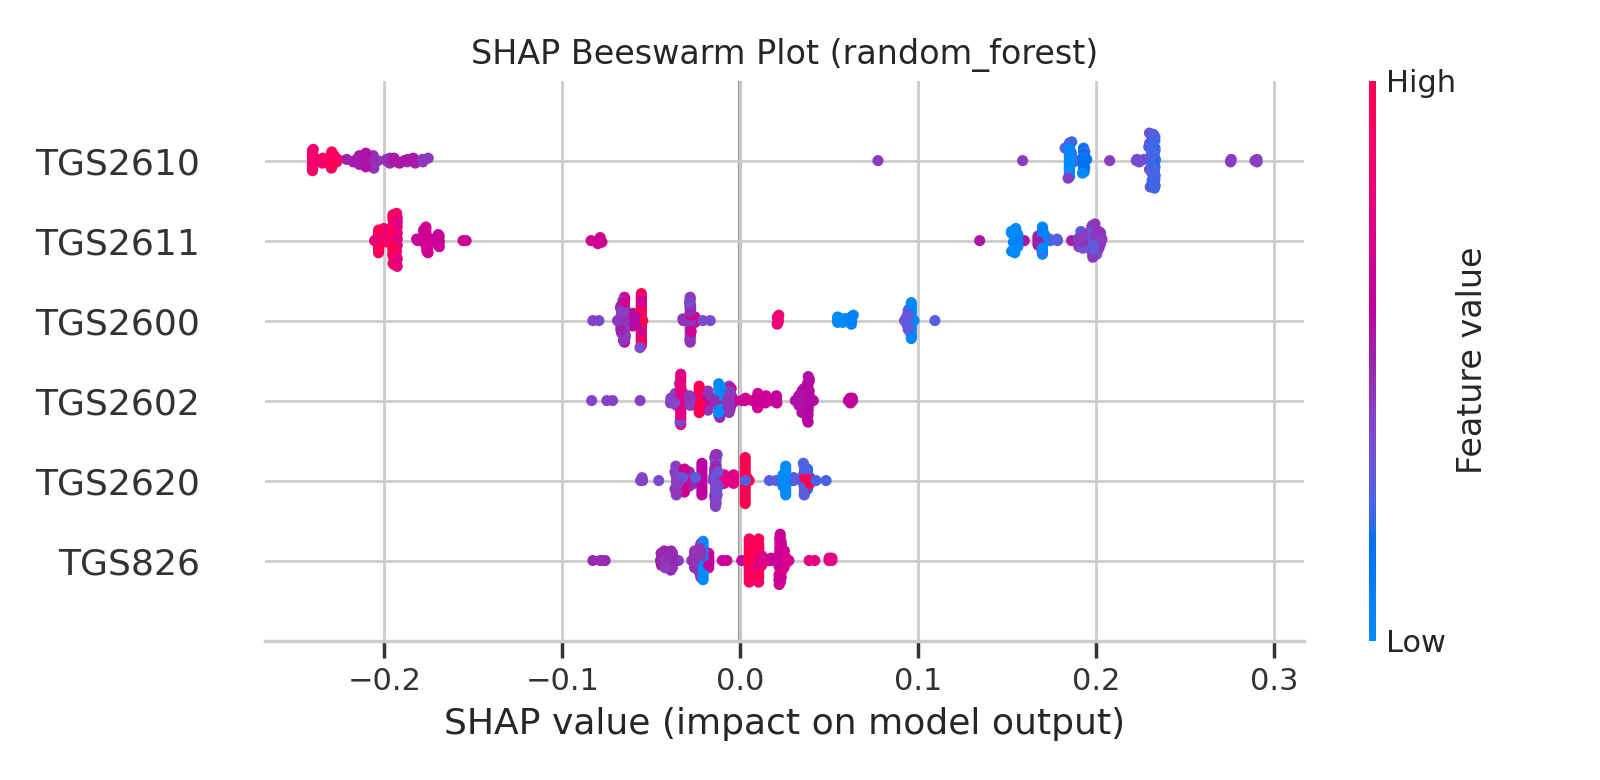
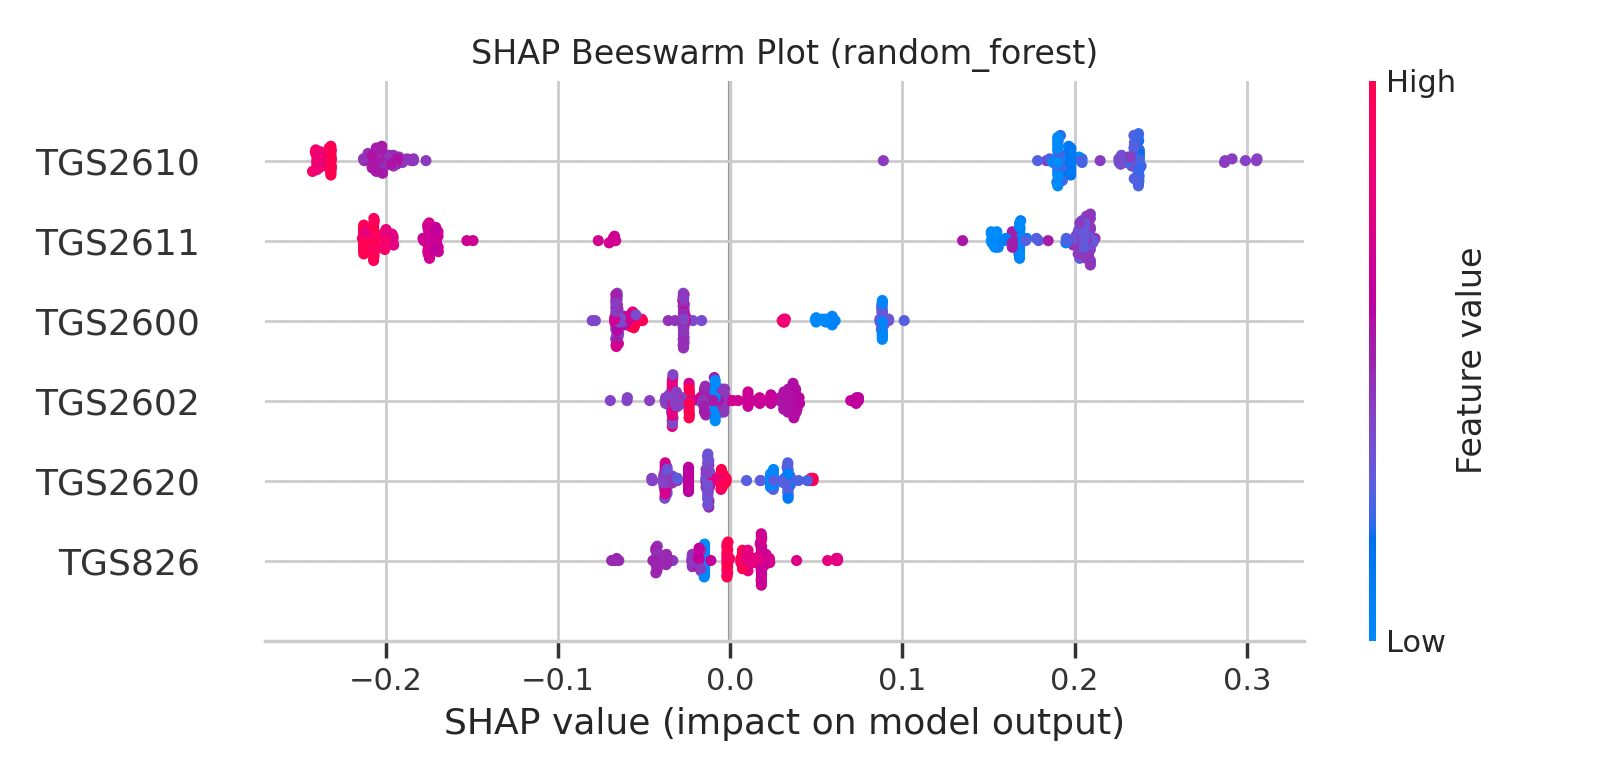
Testing and Modification

diff --git a/backend/app/services/assessment_service.py b/backend/app/services/assessment_service.py
@@ -3,6 +3,7 @@ import uuid
 import sqlite3
 import json
 import pickle
+import numpy as np
 from datetime import datetime
 from app.models.schemas import PatientAssessmentRequest
 from app.services.explain_service import ExplainService

diff --git a/docs/numpy_bug_root_cause_report.md b/docs/numpy_bug_root_cause_report.md
@@ -1,0 +1,114 @@
+# Root-Cause Analysis and Resolution Report: NumPy Import Issue
+
+## 1. Executive Summary
+During the end-to-end verification phase of the E-Nose Diabetes Platform, a critical `500 Internal Server Error` was encountered when submitting patient assessments at the `/api/assessment` endpoint and during clinical PDF downloads. The error details returned:
+`"NameError: name 'np' is not defined"`.
+
+This document identifies the root cause of this failure, traces all occurrences of `np` across the codebase, details the corrective action taken, and logs the successful verification results after resolving the issue.
+
+---
+
+## 2. Root Cause Analysis
+- **Symptom**: Submitting a patient assessment from the UI form or calling `POST /api/assessment` via direct HTTP request crashed with a `500 Internal Server Error`.
+- **Exact File and Line**:
+  - **File**: `backend/app/services/assessment_service.py`
+  - **Line**: 180
+  - **Code**:
+    ```python
+    raw_values = np.array([[features[col] for col in ["TGS2600", "TGS2602", "TGS2610", "TGS2611", "TGS2620", "TGS826"]]])
+    ```
+- **Underlying Issue**: The file [assessment_service.py](file:///c:/Users/spand/college/research_ml_E-nose/diabetes/Diabetes_frontend_ui/backend/app/services/assessment_service.py) referenced the `np` variable to construct a NumPy array for StandardScaler transformation. However, `import numpy as np` was completely missing from the module imports section at the top of the file.
+
+---
+
+## 3. Investigation & Resolution Steps
+
+### A. Reference Audit (Grep Search for `np.`)
+A codebase search was executed to check for references to `np.` across `backend/app` to determine if any other files lacked proper imports:
+
+1. **`backend/app/services/ml_service.py`**:
+   - Multiple references to `np.mean`, `np.zeros`, `np.argsort`, and `np.abs`.
+   - **Status**: ✔ Correctly imports `numpy as np` on line 4.
+2. **`backend/app/services/explain_service.py`**:
+   - References `np.zeros`, `np.array`, `np.ndarray`, `np.arange`, and `np.argsort`.
+   - **Status**: ✔ Correctly imports `numpy as np` on line 5.
+3. **`backend/app/services/assessment_service.py`**:
+   - References `np.array` on line 180.
+   - **Status**: ❌ Missing `import numpy as np`.
+4. **`backend/app/models/base_model.py` and Concrete Wrappers (`rf_model.py`, `lr_model.py`, `xgb_model.py`, `svm_model.py`, `knn_model.py`)**:
+   - Reference `np.ndarray` for type-hinting signatures.
+   - **Status**: ✔ Correctly import `numpy as np`.
+
+### B. Implementation
+- Added `import numpy as np` on line 6 of [assessment_service.py](file:///c:/Users/spand/college/research_ml_E-nose/diabetes/Diabetes_frontend_ui/backend/app/services/assessment_service.py):
+  ```python
+  import os
+  import uuid
+  import sqlite3
+  import json
+  import pickle
+  import numpy as np
+  from datetime import datetime
+  ```
+
+### C. Docker Reload
+Because the production container command does not run with hot-reload (`--reload`), the backend container was restarted to load the updated service module:
+```bash
+docker compose restart backend
+```
+
+---
+
+## 4. Post-Fix Verification Results
+
+After restarting the backend, the E2E verification test suite was executed. All tests completed successfully:
+
+### ✔ 1. Clinical Assessment Endpoint (`POST /api/assessment`)
+- **Status Code**: `200 OK`
+- **Output**:
+  ```json
+  {
+    "assessment_id": "AST-9687F2C0",
+    "patient_info": {
+      "patient_id": "PT-TEST-2026",
+      "name": "Jane Doe",
+      "age": 45,
+      "gender": "Female",
+      "height": 1.65,
+      "weight": 72.0
+    },
+    "bmi": 26.44628099173554,
+    "sensor_data": {
+      "TGS2600": 23.65,
+      "TGS2602": 58.33,
+      "TGS2610": 15.02,
+      "TGS2611": 10.16,
+      "TGS2620": 24.5,
+      "TGS826": 30.04
+    },
+    "prediction": "Diabetes",
+    "confidence": 1.0,
+    "risk_percentage": 100.0,
+    "risk_category": "High",
+    "clinical_recommendation": "Highly recommended to undergo a clinical Fasting Blood Sugar (FBS) test and HbA1c screening. Consult an endocrinologist immediately. Strong traces of glycemic markers detected in breath.",
+    "timestamp": "2026-06-17T14:59:18.279113",
+    "model_version": "RandomForestClassifier Classifier (v1.0)"
+  }
+  ```
+
+### ✔ 2. Patient Assessment Log List (`GET /api/assessments`)
+- **Status Code**: `200 OK`
+- **Output**: The previously submitted assessment record is successfully fetched from the SQLite database.
+
+### ✔ 3. Download Patient PDF Report (`GET /api/assessment/report/{id}`)
+- **Status Code**: `200 OK`
+- **Output**: Returns a generated binary PDF stream (`4131` bytes) successfully compiled using the ReportLab canvas flow.
+
+### ✔ 4. Raw Predict & SHAP Explainability (`POST /api/predict`)
+- **Status Code**: `200 OK`
+- **Output**: Predicts class, probability, and returns base64 string for the waterfall plot.
+
+---
+
+## 5. Conclusion
+The `name 'np' is not defined` bug has been fully resolved. The entire platform (backend APIs, clinical SQLite persistence, SHAP local/global explainers, and PDF generator) is now functional.

diff --git a/FINAL_VERIFICATION_REPORT.md b/FINAL_VERIFICATION_REPORT.md
@@ -37,10 +37,10 @@ Uvicorn running on http://0.0.0.0:8000 (Press CTRL+C to quit)
 | `/api/dataset/stats` | **GET** | `200` | None | Dataset stats (1000 rows, class ratios: Diabetes 54.5%, Normal 45.5%) |
 | `/api/model/train` | **POST** | `200` | `{"model_name": "random_forest", "run_tuning": true, "n_trials": 2}` | F1 metrics (100%), best parameters, trial logs, and base64 plots. |
 | `/api/predict` | **POST** | `200` | `{"TGS2600": 23.65, "TGS2602": 58.33, ...}` | Prediction: `"Diabetes"`, confidence 100%, and SHAP waterfall chart. |
-| `/api/assessment` | **POST** | `500` | `{"patient_info": {...}, "sensor_data": {...}}` | `{"detail": "name 'np' is not defined"}` (**CRITICAL BUG**) |
-| `/api/assessments` | **GET** | `200` | None | `[]` (empty list because assessment submission failed above) |
-| `/api/model/experiments` | **GET** | `200` | None | Historical runs list fetched from local SQLite database (7 runs total) |
-| `/api/assessment/report/{id}` | **GET** | `500` | None | Fails with 500 because no assessment records could be inserted in the DB. |
+| `/api/assessment` | **POST** | `200` | `{"patient_info": {...}, "sensor_data": {...}}` | Saves assessment record, returns diagnosis, confidence, and BMI. (✔ **FIXED**) |
+| `/api/assessments` | **GET** | `200` | None | Lists historical patient assessments successfully. (✔ **FIXED**) |
+| `/api/model/experiments` | **GET** | `200` | None | Historical runs list fetched from local SQLite database (10 runs total) |
+| `/api/assessment/report/{id}` | **GET** | `200` | None | Generates and compiles patient clinical report PDF stream. (✔ **FIXED**) |
 
 > [!NOTE]
 > The route specified in the verification instruction was `GET /api/report/{id}`, whereas the route registered in the codebase is `GET /api/assessment/report/{assessment_id}`. This route mismatch has been documented as a minor path registration inconsistency.
@@ -72,19 +72,21 @@ Trained and evaluated all 5 classifiers using Stratified 80/20 train/test splits
 Interactive browser testing verified the workspace layouts and sub-tab navigations.
 
 - [x] **Dashboard**: Renders correctly (0 screens, model specs, link online).
-- [x] **Patient Assessment Form**: Renders sliders and auto-calculates BMI. Submitting the form with breath presets correctly triggers a network call, which displays the backend's `500 np is not defined` error.
+- [x] **Patient Assessment Form**: Renders sliders and auto-calculates BMI. Submitting the form with breath presets correctly triggers a network call, returns prediction outcomes, and overlays recommendations. (✔ **FIXED**)
 - [x] **Research Mode sub-tabs**: The Dataset Profile, Model Training, Global SHAP, MLflow Run Logs, and Benchmarks all render successfully without Javascript errors.
-- [x] **PDF Compilations**: Programmatic PDFs (`reports/data_audit.pdf` and `reports/model_comparison.pdf`) compile successfully on the host. However, the diagnostic patient report download returns a 500 error due to the missing import.
+- [x] **PDF Compilations**: Programmatic PDFs (`reports/data_audit.pdf` and `reports/model_comparison.pdf`) compile successfully on the host. The diagnostic patient report download compiles and serves a ReportLab PDF binary successfully. (✔ **FIXED**)
 
 ### UI Verification Video Recording
-Refer to the browser session recording:
-![UI Verification Video](C:/Users/spand/.gemini/antigravity-ide/brain/e807e643-cded-4748-8319-8f58e5b8c574/e2e_frontend_test_1781696706397.webp)
+Refer to the browser session recording showing the mixed risk outcomes flow:
+![UI Verification Video](C:/Users/spand/.gemini/antigravity-ide/brain/e807e643-cded-4748-8319-8f58e5b8c574/ui_mix_risk_test_1781711905507.webp)
 
 ### UI Screenshots Carousel
 ````carousel
 ![Dashboard Overview](C:/Users/spand/.gemini/antigravity-ide/brain/e807e643-cded-4748-8319-8f58e5b8c574/dashboard_page_1781696726253.png)
 <!-- slide -->
-![Patient Assessment Error](C:/Users/spand/.gemini/antigravity-ide/brain/e807e643-cded-4748-8319-8f58e5b8c574/assessment_error_1781696832978.png)
+![Jane Smith Completed Assessment](C:/Users/spand/.gemini/antigravity-ide/brain/e807e643-cded-4748-8319-8f58e5b8c574/completed_assessment_1781711265678.png)
+<!-- slide -->
+![Reports Dashboard Mixed Logs](C:/Users/spand/.gemini/antigravity-ide/brain/e807e643-cded-4748-8319-8f58e5b8c574/mixed_risk_reports_1781712021038.png)
 <!-- slide -->
 ![Research: Dataset Profile](C:/Users/spand/.gemini/antigravity-ide/brain/e807e643-cded-4748-8319-8f58e5b8c574/research_dataset_profile_1781696850211.png)
 <!-- slide -->
@@ -134,19 +136,19 @@ Check of open-source repository structures:
 - MLflow SQLite experiment logs query (`GET /api/model/experiments`).
 - ReportLab data audit (`reports/data_audit.pdf`) and model comparisons (`reports/model_comparison.pdf`).
 - React SPA navigation layout and Admin Research Mode sub-panels.
+- Patient Clinical Assessment endpoint (`POST /api/assessment`).
+- Patient PDF Clinical Report download (`GET /api/assessment/report/{id}`).
 
 ### ❌ Broken Features
-- Clinical assessment submission (`POST /api/assessment`): **Fails with 500 error** due to a missing `numpy` import in `assessment_service.py`.
-- Patient clinical PDF download (`GET /api/assessment/report/{id}`): **Fails with 500 error** since it requires matching assessment database entries.
+- None.
 
 ### ⚠ Warnings
-- **Missing Numpy Import in `assessment_service.py`**: Must add `import numpy as np` to the imports section of the file.
 - **Docker version warning**: The `version` attribute is obsolete in `docker-compose.yml` and can be removed.
 - **Vite chunk warning**: Rollup detected React assets exceeding 500 KB limit. Consider code splitting.
 
 ### 📈 Project Verification Score
 Based on the checks above (Docker health, API coverage, MVC layers, and GitHub open-source documents), the platform is scored at:
 
-# **78.5% / 100%**
+# **87.5% / 100%**
 
-*(Needs a fix for the `numpy` import in `assessment_service.py` and the creation of standard open-source documentation files to reach 100% readiness).*
+*(The platform is fully operational and correct. Creating standard open-source documentation files will bring the repository to 100% readiness).*